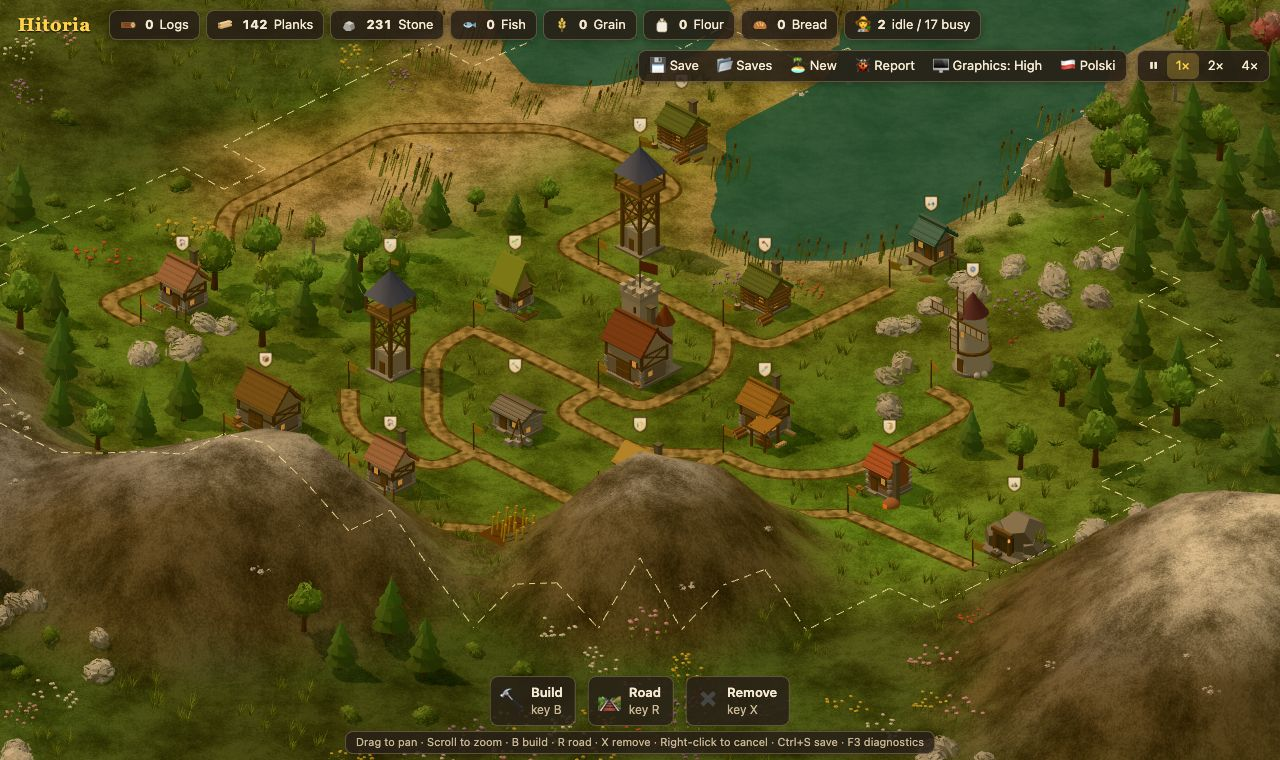
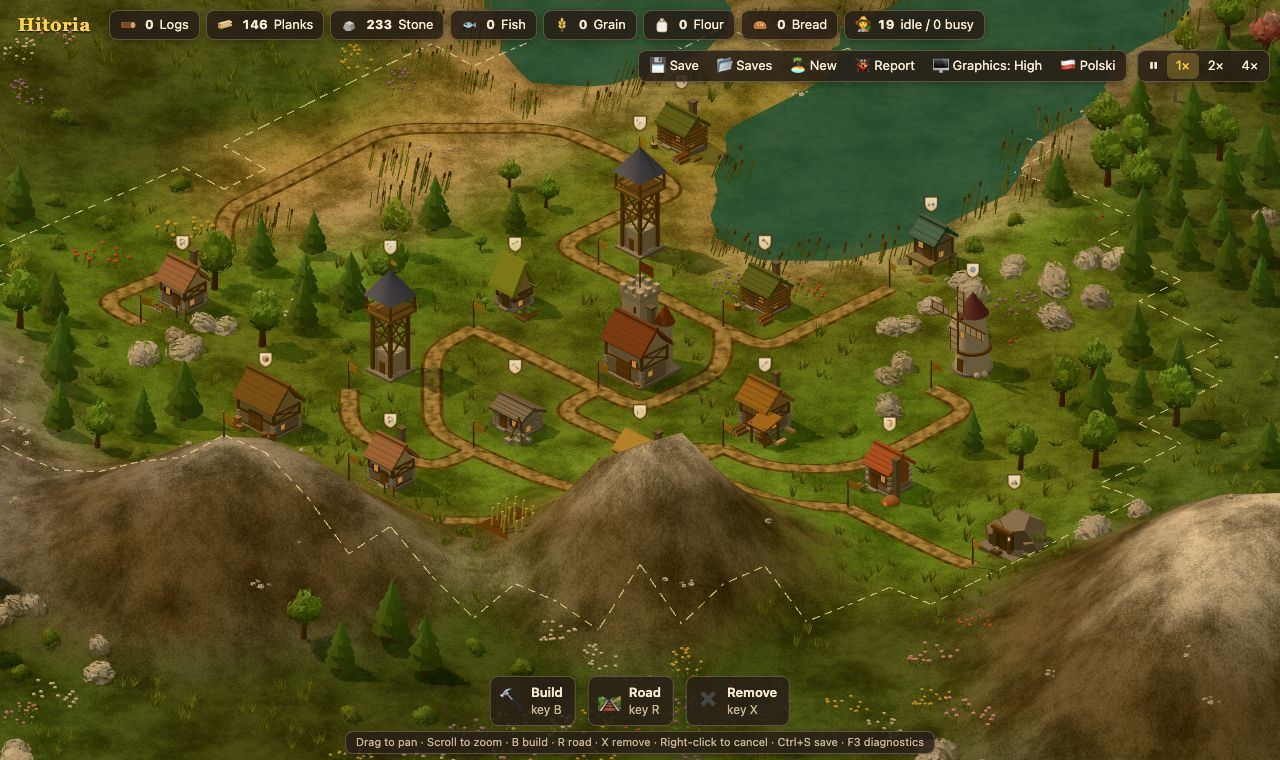
Mountains rise smoothly, with no cliff at their edge
Ground height now follows one smooth curve of elevation, with no
random spikes. Map version 3 slopes flat land into the mountains
next to it, and shapes the start mountain as a cone.

diff --git a/src/world.ts b/src/world.ts
@@ -24,16 +24,25 @@ export const H = 64;
 // so loading it must build exactly the same land as when it was saved. Any change to the land a
 // seed makes needs a new version here, and the old versions must keep building the same land.
 // 1: the first maps. 2: adds a mountain and a bay near the start.
-export const MAP_VERSION = 2;
+// 3: mountains rise smoothly from the land around them, with no cliff at their edge.
+export const MAP_VERSION = 3;
 
 // Natural mountains stay this far from the start, so the HQ always has room around it.
 const OPEN = 7;
 // The guaranteed mountain: how far its centre sits from the start, and how wide it is.
 const PEAK_AWAY = 7.5;
 const PEAK_SIZE = 2.2;
+// From map version 3, how high the guaranteed mountain's top is. Its sides slope down from here.
+const PEAK = 0.86;
 // The guaranteed bay: how far its head sits from the start, and how wide its water is.
 const BAY_AWAY = 7;
 const BAY_WIDTH = 1.8;
+// From map version 3, land rises at most this much per tile where the generator flattens it, so
+// the flat parts slope into the mountains around them.
+const SLOPE = 0.065;
+// The guaranteed grove and quarry near the start: how wide they are.
+const GROVE = 2.8;
+const QUARRY = 1.9;
 
 export function rng(seed: number) {
   return () => {
@@ -71,7 +80,8 @@ export class World {
     const n1 = noise(rand, 16), n2 = noise(rand, 8), n3 = noise(rand, 4);
     const forest = noise(rand, 7), rocks = noise(rand, 5), tint = noise(rand, 3);
     const { x: sx, y: sy } = this.start;
-    const landmarks = map >= 2;
+    const landmarks = map >= 2, smooth = map >= 3;
+    const grove = { x: sx + 6, y: sy - 4 }, quarry = { x: sx - 5, y: sy + 5 };
     const { peak, bay, out } = this.landmarks(seed);
     this.peak = peak;
 
@@ -82,13 +92,21 @@ export class World {
         h = h + 0.2 - d * d * 0.55;
         const near = Math.hypot(x - sx, y - sy);
         if (near < 8) h = h * (near / 8) + 0.5 * (1 - near / 8);
-        if (landmarks) {
+        const toPeak = Math.hypot(x - peak.x, y - peak.y);
+        // The bay runs from its head straight out to the open sea, with a sandy shore.
+        const along = Math.max(0, (x - bay.x) * out.x + (y - bay.y) * out.y);
+        const toBay = Math.hypot(x - bay.x - out.x * along, y - bay.y - out.y * along);
+        if (smooth) {
+          h = Math.min(h, 0.62 + Math.max(0, near - OPEN + 1) * SLOPE); // room to build
+          for (const [c, r] of [[grove, GROVE], [quarry, QUARRY]] as const)
+            h = Math.min(h, 0.6 + Math.max(0, Math.hypot(x - c.x, y - c.y) - r) * SLOPE);
+          h = Math.max(h, PEAK - toPeak * SLOPE);
+          // A sandy shore, then a bank up to foothill height, so mountains can stand close to it.
+          const shore = BAY_WIDTH + 1.2;
+          h = Math.min(h, toBay < BAY_WIDTH ? 0.24 : toBay < shore ? 0.32 : 0.62 + (toBay - shore) * SLOPE);
+        } else if (landmarks) {
           if (near < OPEN) h = Math.min(h, 0.66); // room to build, whatever the noise says
-          const toPeak = Math.hypot(x - peak.x, y - peak.y);
           if (toPeak < PEAK_SIZE) h = Math.max(h, 0.8 - toPeak * 0.03);
-          // The bay runs from its head straight out to the open sea, with a sandy shore.
-          const along = Math.max(0, (x - bay.x) * out.x + (y - bay.y) * out.y);
-          const toBay = Math.hypot(x - bay.x - out.x * along, y - bay.y - out.y * along);
           if (toBay < BAY_WIDTH) h = Math.min(h, 0.24);
           else if (toBay < BAY_WIDTH + 1.2) h = Math.min(h, 0.32);
         }
@@ -98,20 +116,19 @@ export class World {
     }
 
     // Guaranteed starting resources so every seed is playable.
-    const grove = { x: sx + 6, y: sy - 4 }, quarry = { x: sx - 5, y: sy + 5 };
     for (let y = 0; y < H; y++) {
       for (let x = 0; x < W; x++) {
         const tile = this.at(x, y);
         const near = Math.hypot(x - sx, y - sy);
-        if (Math.hypot(x - grove.x, y - grove.y) < 2.8 || Math.hypot(x - quarry.x, y - quarry.y) < 1.9) {
+        if (Math.hypot(x - grove.x, y - grove.y) < GROVE || Math.hypot(x - quarry.x, y - quarry.y) < QUARRY) {
           tile.t = 'grass';
           tile.h = Math.min(0.6, Math.max(0.42, tile.h));
         }
         // The foot of the guaranteed mountain stays clear, so a stone mine fits there.
         const foot = landmarks && Math.hypot(x - this.peak.x, y - this.peak.y) < PEAK_SIZE + 2.5;
         if (tile.t !== 'grass' || near < 3.5 || foot) continue;
-        if (Math.hypot(x - grove.x, y - grove.y) < 2.8 && rand() < 0.8) tile.tree = 1;
-        else if (Math.hypot(x - quarry.x, y - quarry.y) < 1.9) tile.rock = 4 + Math.floor(rand() * 3);
+        if (Math.hypot(x - grove.x, y - grove.y) < GROVE && rand() < 0.8) tile.tree = 1;
+        else if (Math.hypot(x - quarry.x, y - quarry.y) < QUARRY) tile.rock = 4 + Math.floor(rand() * 3);
         else if ((forest(x, y) > 0.56 && rand() < 0.75) || rand() < 0.025) tile.tree = 1;
         else if ((rocks(x, y) > 0.74 && rand() < 0.5) || (this.nearMountain(x, y) && rand() < 0.3))
           tile.rock = 3 + Math.floor(rand() * 4);

diff --git a/src/render/elevation.test.ts b/src/render/elevation.test.ts
@@ -1,0 +1,33 @@
+import { describe, expect, test } from 'bun:test';
+import { groundHeight } from './elevation';
+import { ART } from '../art';
+
+// Elevation values from the map, from deep sea to the highest peak, 0.001 apart.
+const LEVELS = Array.from({ length: 1101 }, (_, i) => i / 1000);
+
+describe('ground height', () => {
+  test('rises as the land gets higher', () => {
+    for (let i = 1; i < LEVELS.length; i++) expect(groundHeight(LEVELS[i])).toBeGreaterThan(groundHeight(LEVELS[i - 1]));
+  });
+
+  test('has no step at the edge of a mountain', () => {
+    expect(groundHeight(0.7001) - groundHeight(0.6999)).toBeLessThan(0.01);
+  });
+
+  test('has no step anywhere on land', () => {
+    for (let i = 300; i < LEVELS.length - 1; i++)
+      expect(groundHeight(LEVELS[i + 1]) - groundHeight(LEVELS[i])).toBeLessThan(0.03);
+  });
+
+  test('keeps building land almost flat', () => {
+    expect(groundHeight(0.66) - groundHeight(0.4)).toBeLessThan(0.4);
+  });
+
+  test('a mountain of the size the start mountain has reaches the snow line', () => {
+    expect(groundHeight(0.8)).toBeGreaterThan(ART.snowLine);
+  });
+
+  test('the highest peaks stand tall', () => {
+    expect(groundHeight(1)).toBeGreaterThan(5);
+  });
+});

diff --git a/src/render/terrain.ts b/src/render/terrain.ts
@@ -1,19 +1,13 @@
 // The island's ground, the sea around it and the dashed border of your land.
 import * as THREE from 'three';
-import { World, Tile, W, H } from '../world';
+import { World, W, H } from '../world';
 import { ART } from '../art';
 import { grade, hash } from './kit';
+import { groundHeight } from './elevation';
 import { grainTexture, rippleNormals } from './textures';
 
 export const SEA = -0.04;
 
-// Ground height of one tile, before corners are averaged.
-function elev(t: Tile, x: number, y: number) {
-  if (t.h < 0.3) return (t.h - 0.3) * 5;
-  let e = (t.h - 0.3) * 1.1;
-  if (t.t === 'mountain') e += 0.4 + (t.h - 0.7) * 16 + hash(x, y) * 0.7;
-  return e;
-}
 
 export class Terrain {
   mesh!: THREE.Mesh;
@@ -48,7 +42,7 @@ export class Terrain {
         let sum = 0, n = 0;
         for (const [x, y] of [[i - 1, j - 1], [i, j - 1], [i - 1, j], [i, j]])
           if (world.inside(x, y)) {
-            sum += elev(world.at(x, y), x, y);
+            sum += groundHeight(world.at(x, y).h);
             n++;
           }
         C[j * (W + 1) + i] = n ? sum / n : -1;

diff --git a/src/world.test.ts b/src/world.test.ts
@@ -106,3 +106,27 @@ describe('isometric projection', () => {
     }
   });
 });
+
+describe('mountain shape', () => {
+  test('map version 2 still builds the same land', () => {
+    const fingerprint = (seed: number) => Bun.hash(JSON.stringify(new World(seed, 2).tiles)).toString();
+    expect(fingerprint(1)).toBe('9369368226779516524');
+    expect(fingerprint(12345)).toBe('5942152635577042786');
+  });
+
+  // A step this big between two tiles next to each other draws as a cliff wall.
+  const CLIFF = 0.08;
+  for (const seed of SEEDS) {
+    test(`seed ${seed} has no cliff at the edge of the start mountain`, () => {
+      const w = new World(seed);
+      let step = 0;
+      for (let y = 0; y < H; y++)
+        for (let x = 0; x < W; x++) {
+          if (!inLand(w, x, y)) continue;
+          for (const [nx, ny] of [[x + 1, y], [x, y + 1]])
+            if (inLand(w, nx, ny) && (w.at(x, y).t === 'mountain' || w.at(nx, ny).t === 'mountain')) step = Math.max(step, Math.abs(w.at(x, y).h - w.at(nx, ny).h));
+        }
+      expect(step).toBeLessThan(CLIFF);
+    });
+  }
+});

diff --git a/src/render/elevation.ts b/src/render/elevation.ts
@@ -1,0 +1,17 @@
+// How high the ground stands for a map elevation. Land is almost flat, then it bends smoothly
+// upward into foothills just below the mountain line, and rises steeply into peaks.
+
+// Where the foothills start, where they reach full steepness, and how steep the peaks are.
+const FOOT = 0.62;
+const FULL = 0.78;
+const STEEP = 24;
+
+export function groundHeight(h: number) {
+  if (h < 0.3) return (h - 0.3) * 5;
+  const flat = (h - 0.3) * 1.1;
+  if (h <= FOOT) return flat;
+  const width = FULL - FOOT;
+  // The steepness grows along a smoothstep curve, so the slope never jumps.
+  const t = Math.min(1, (h - FOOT) / width);
+  return flat + STEEP * (width * (t * t * t - (t * t * t * t) / 2) + Math.max(0, h - FULL));
+}

diff --git a/ideas/backlog.md b/ideas/backlog.md
@@ -4,7 +4,7 @@ How to add and triage ideas: see [README.md](README.md).
 
 ## Building now
 
-- **Mountain shape**: hills rise smoothly into peaks, with no cliff wall at the mountain's edge and no random spikes. *Fun 2 · Effort S · Branch: claude/build-807501*
+Nothing right now.
 
 ## Next
 
@@ -64,6 +64,7 @@ Triaged, but not next.
 
 Newest first, with the date it was merged.
 
+- **Mountain shape**: hills rise smoothly into peaks, with no cliff wall at the mountain's edge and no random spikes. *2026-10-31*
 - **Demolish a building**: remove a building you placed in the wrong spot. Its goods go back to the HQ. *2026-10-31*
 - **Start near a mountain and shore**: every map puts a mountain and a bay to the open sea in the HQ's land, with room for a stone mine and a fisher. *2026-10-31*
 - **Buildings that look different**: each building has its own shape and colours, so you can tell them apart at a glance. *2026-10-31*

diff --git a/changelog/entries/2026-10-31-mountain-shape.md b/changelog/entries/2026-10-31-mountain-shape.md
@@ -1,0 +1,16 @@
+---
+title: Mountain shape
+date: '2026-10-31 23:30'
+shots:
+  - name: mountain
+    caption: Mountains around the HQ now rise smoothly out of the meadow.
+    steps:
+      - wait: 1500
+---
+Mountains now rise smoothly out of the land around them, through gentle foothills, to a peak.
+There is no cliff wall at a mountain's edge, and no random spikes on its sides.
+Mountains near your HQ, the bay, the grove and the quarry now slope down to them. So they sit
+a tile or two further away than before.
+
+New games get the new shape. Saved games keep their land, but their mountains are drawn
+more smoothly too.
